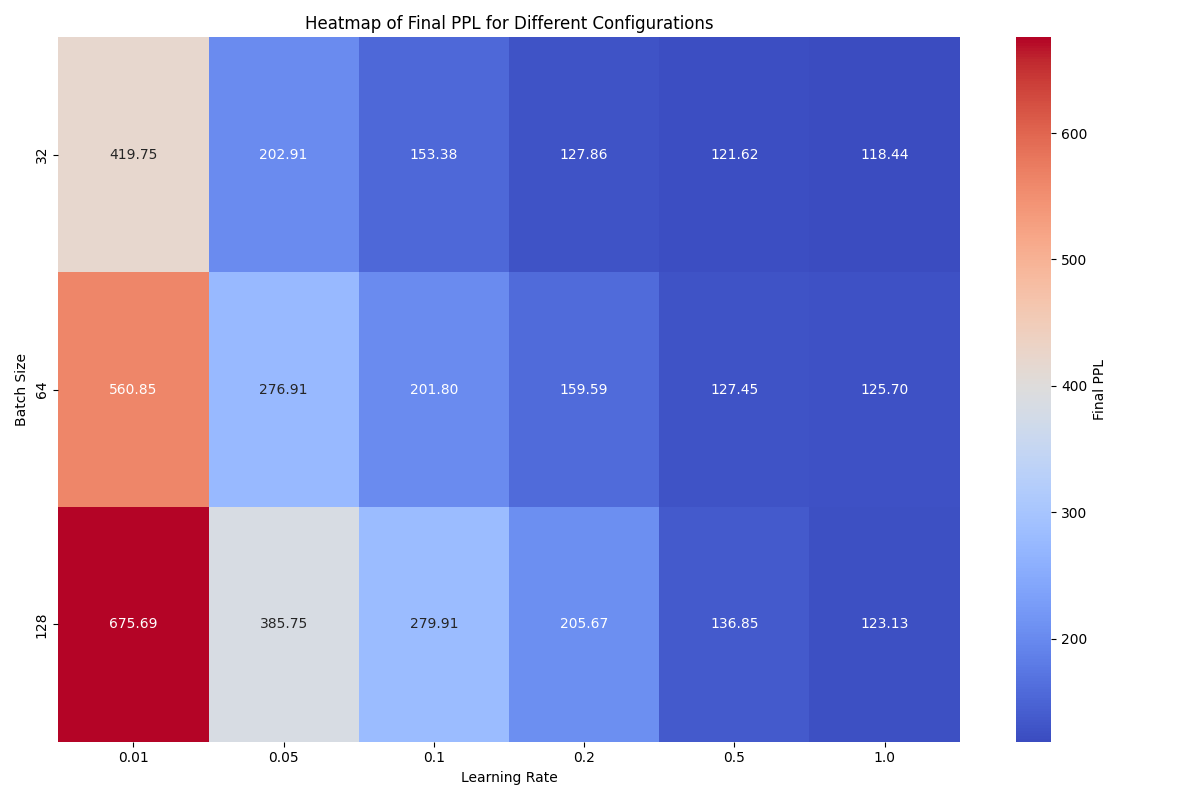
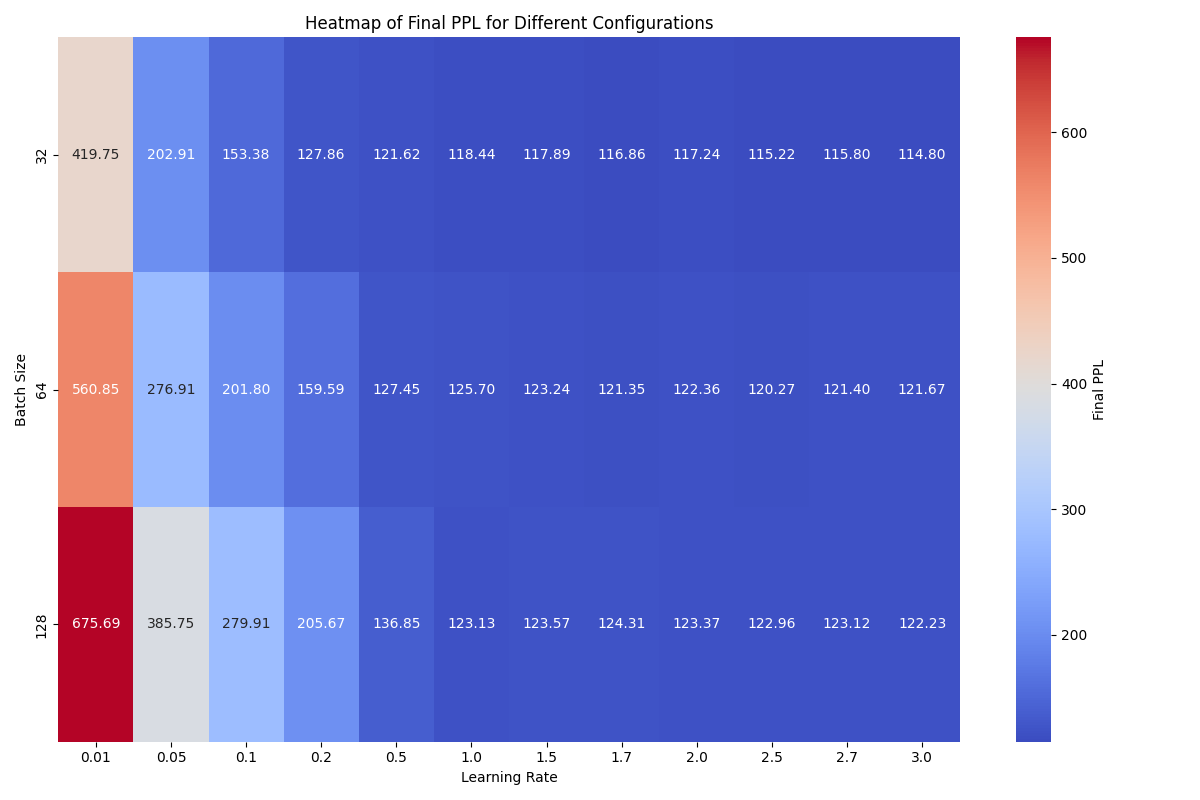
Fix pivot table creation and update best configuration results for LSTM

diff --git a/256181_Alessia_Ianes/LM/part_B/main.py b/256181_Alessia_Ianes/LM/part_B/main.py
@@ -190,7 +190,7 @@ if __name__ == "__main__":
 
 
 
-    pivot_table = pd.DataFrame([all_results]).pivot_table(
+    pivot_table = pd.DataFrame(all_results).pivot_table(
         values='Test PPL',
         index='Batch Size',  # Rows: Batch Size
         columns='Learning Rate'  # Columns: Learning Rate
